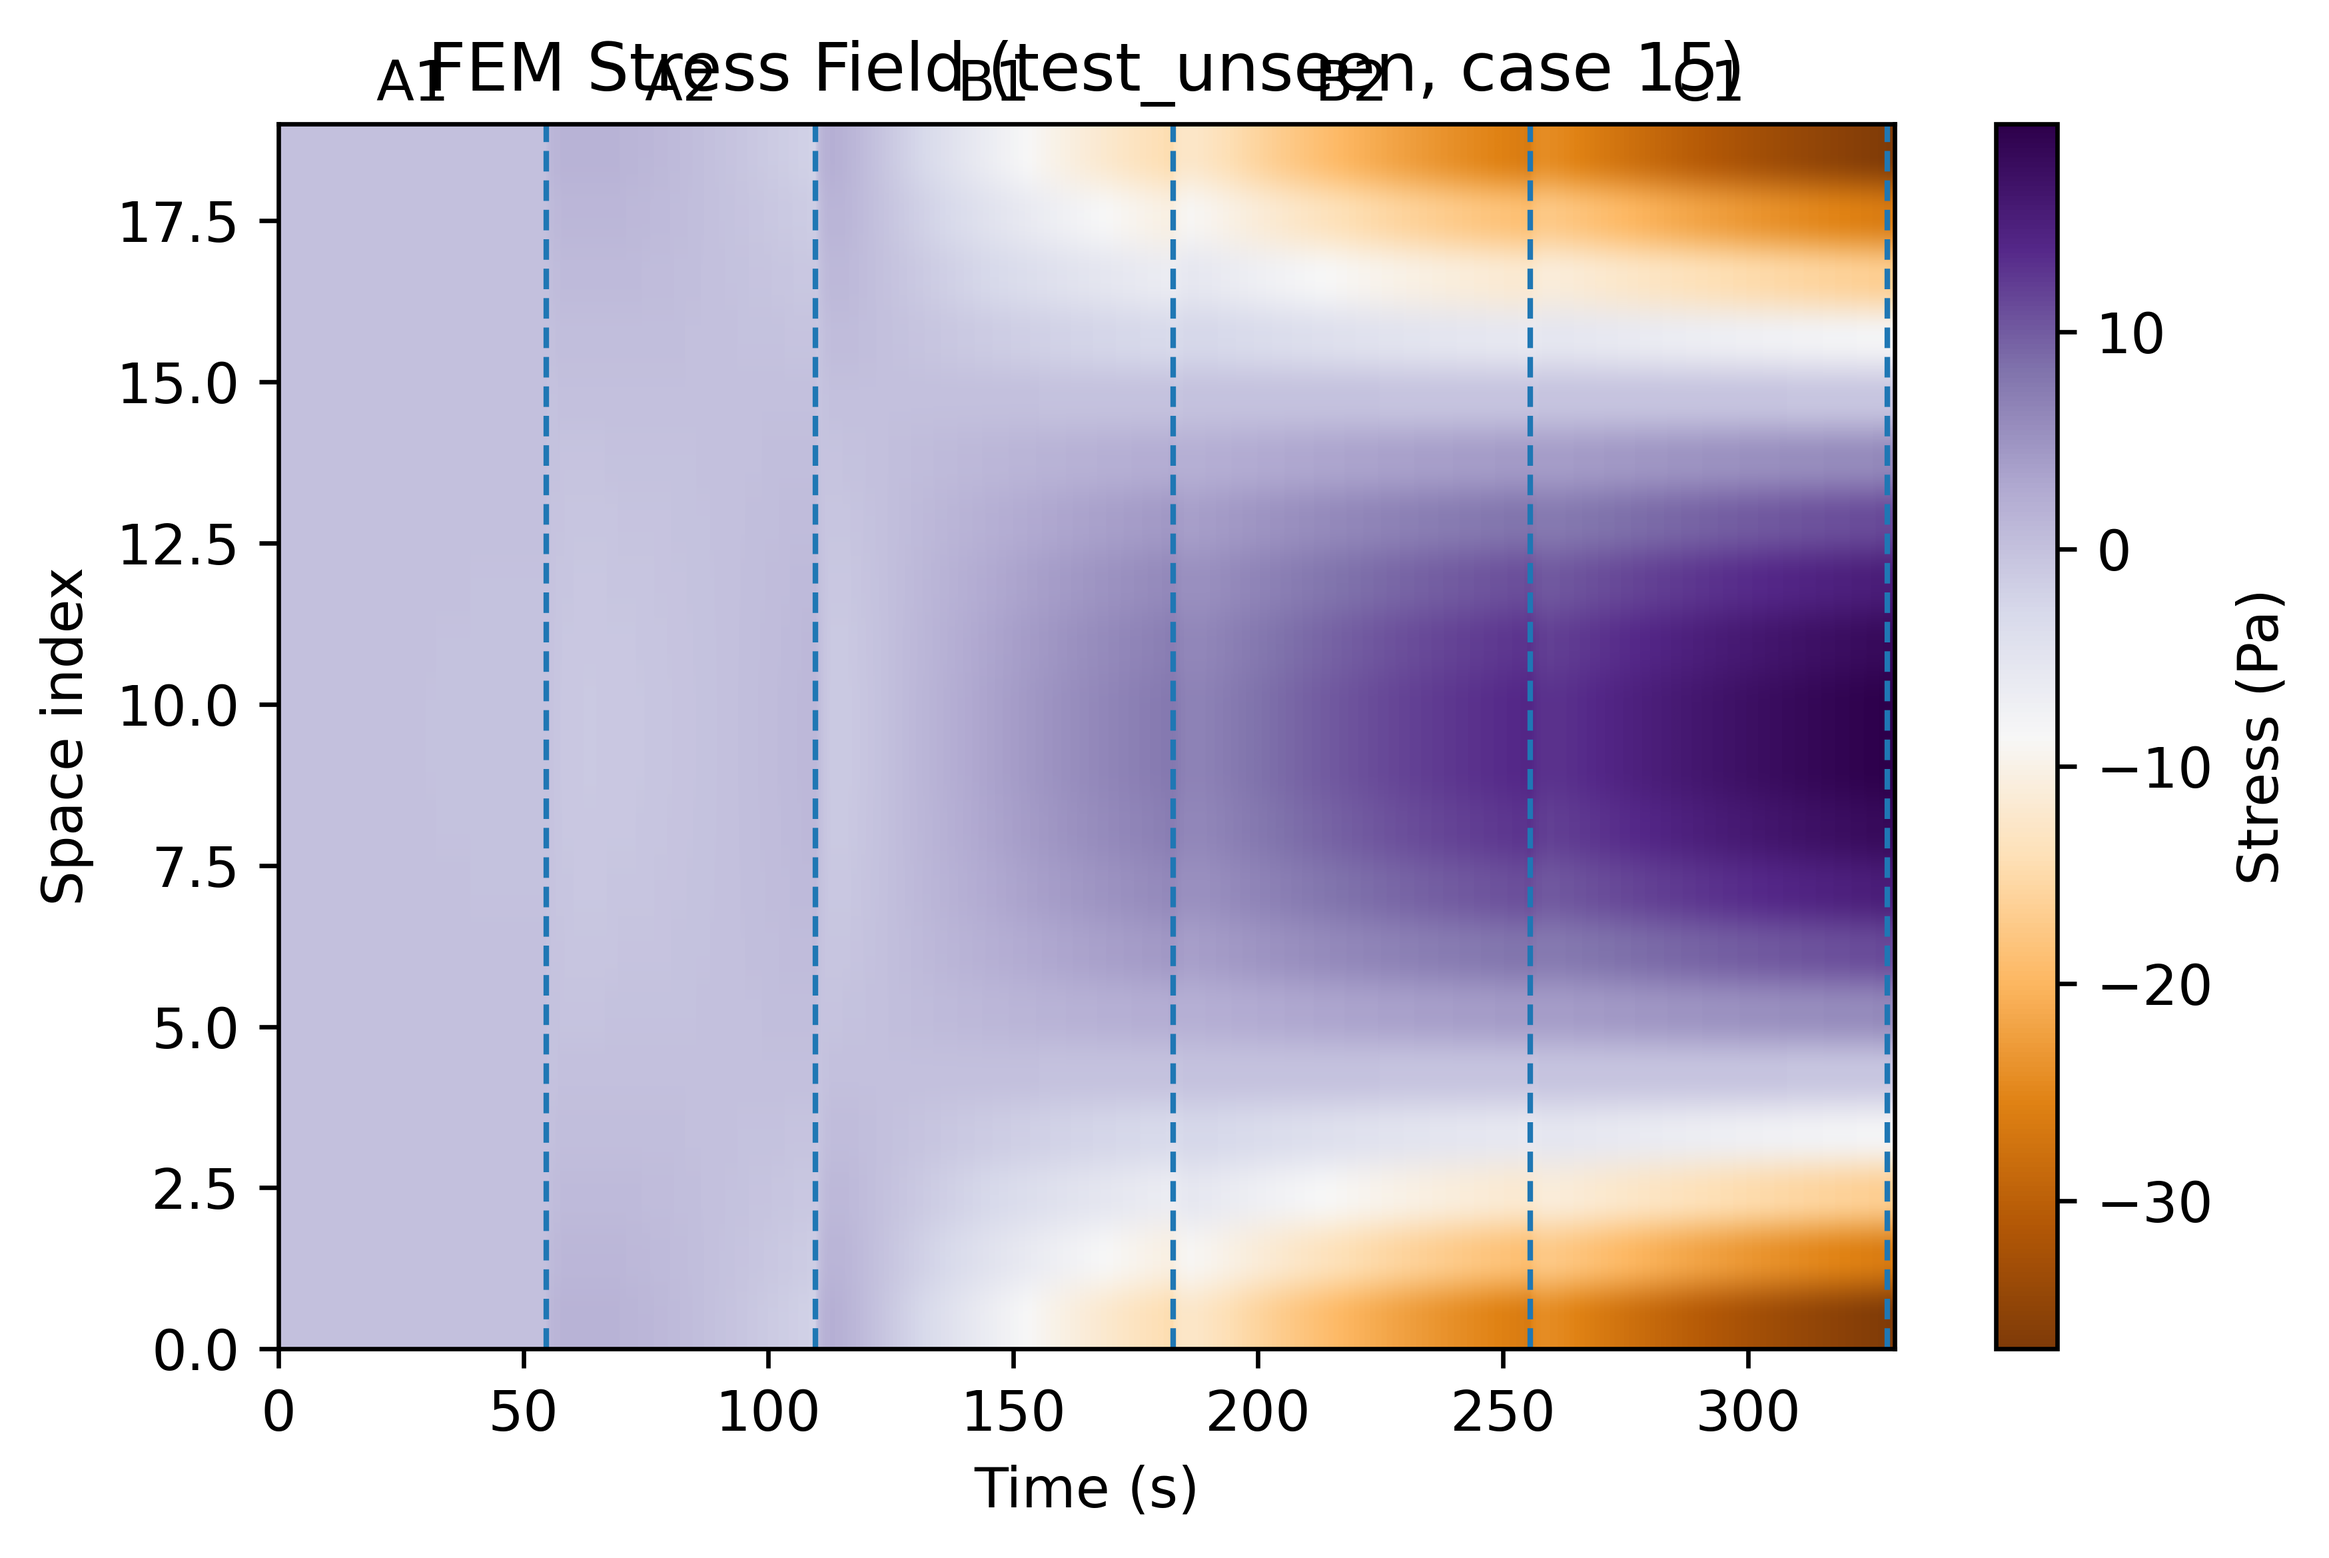
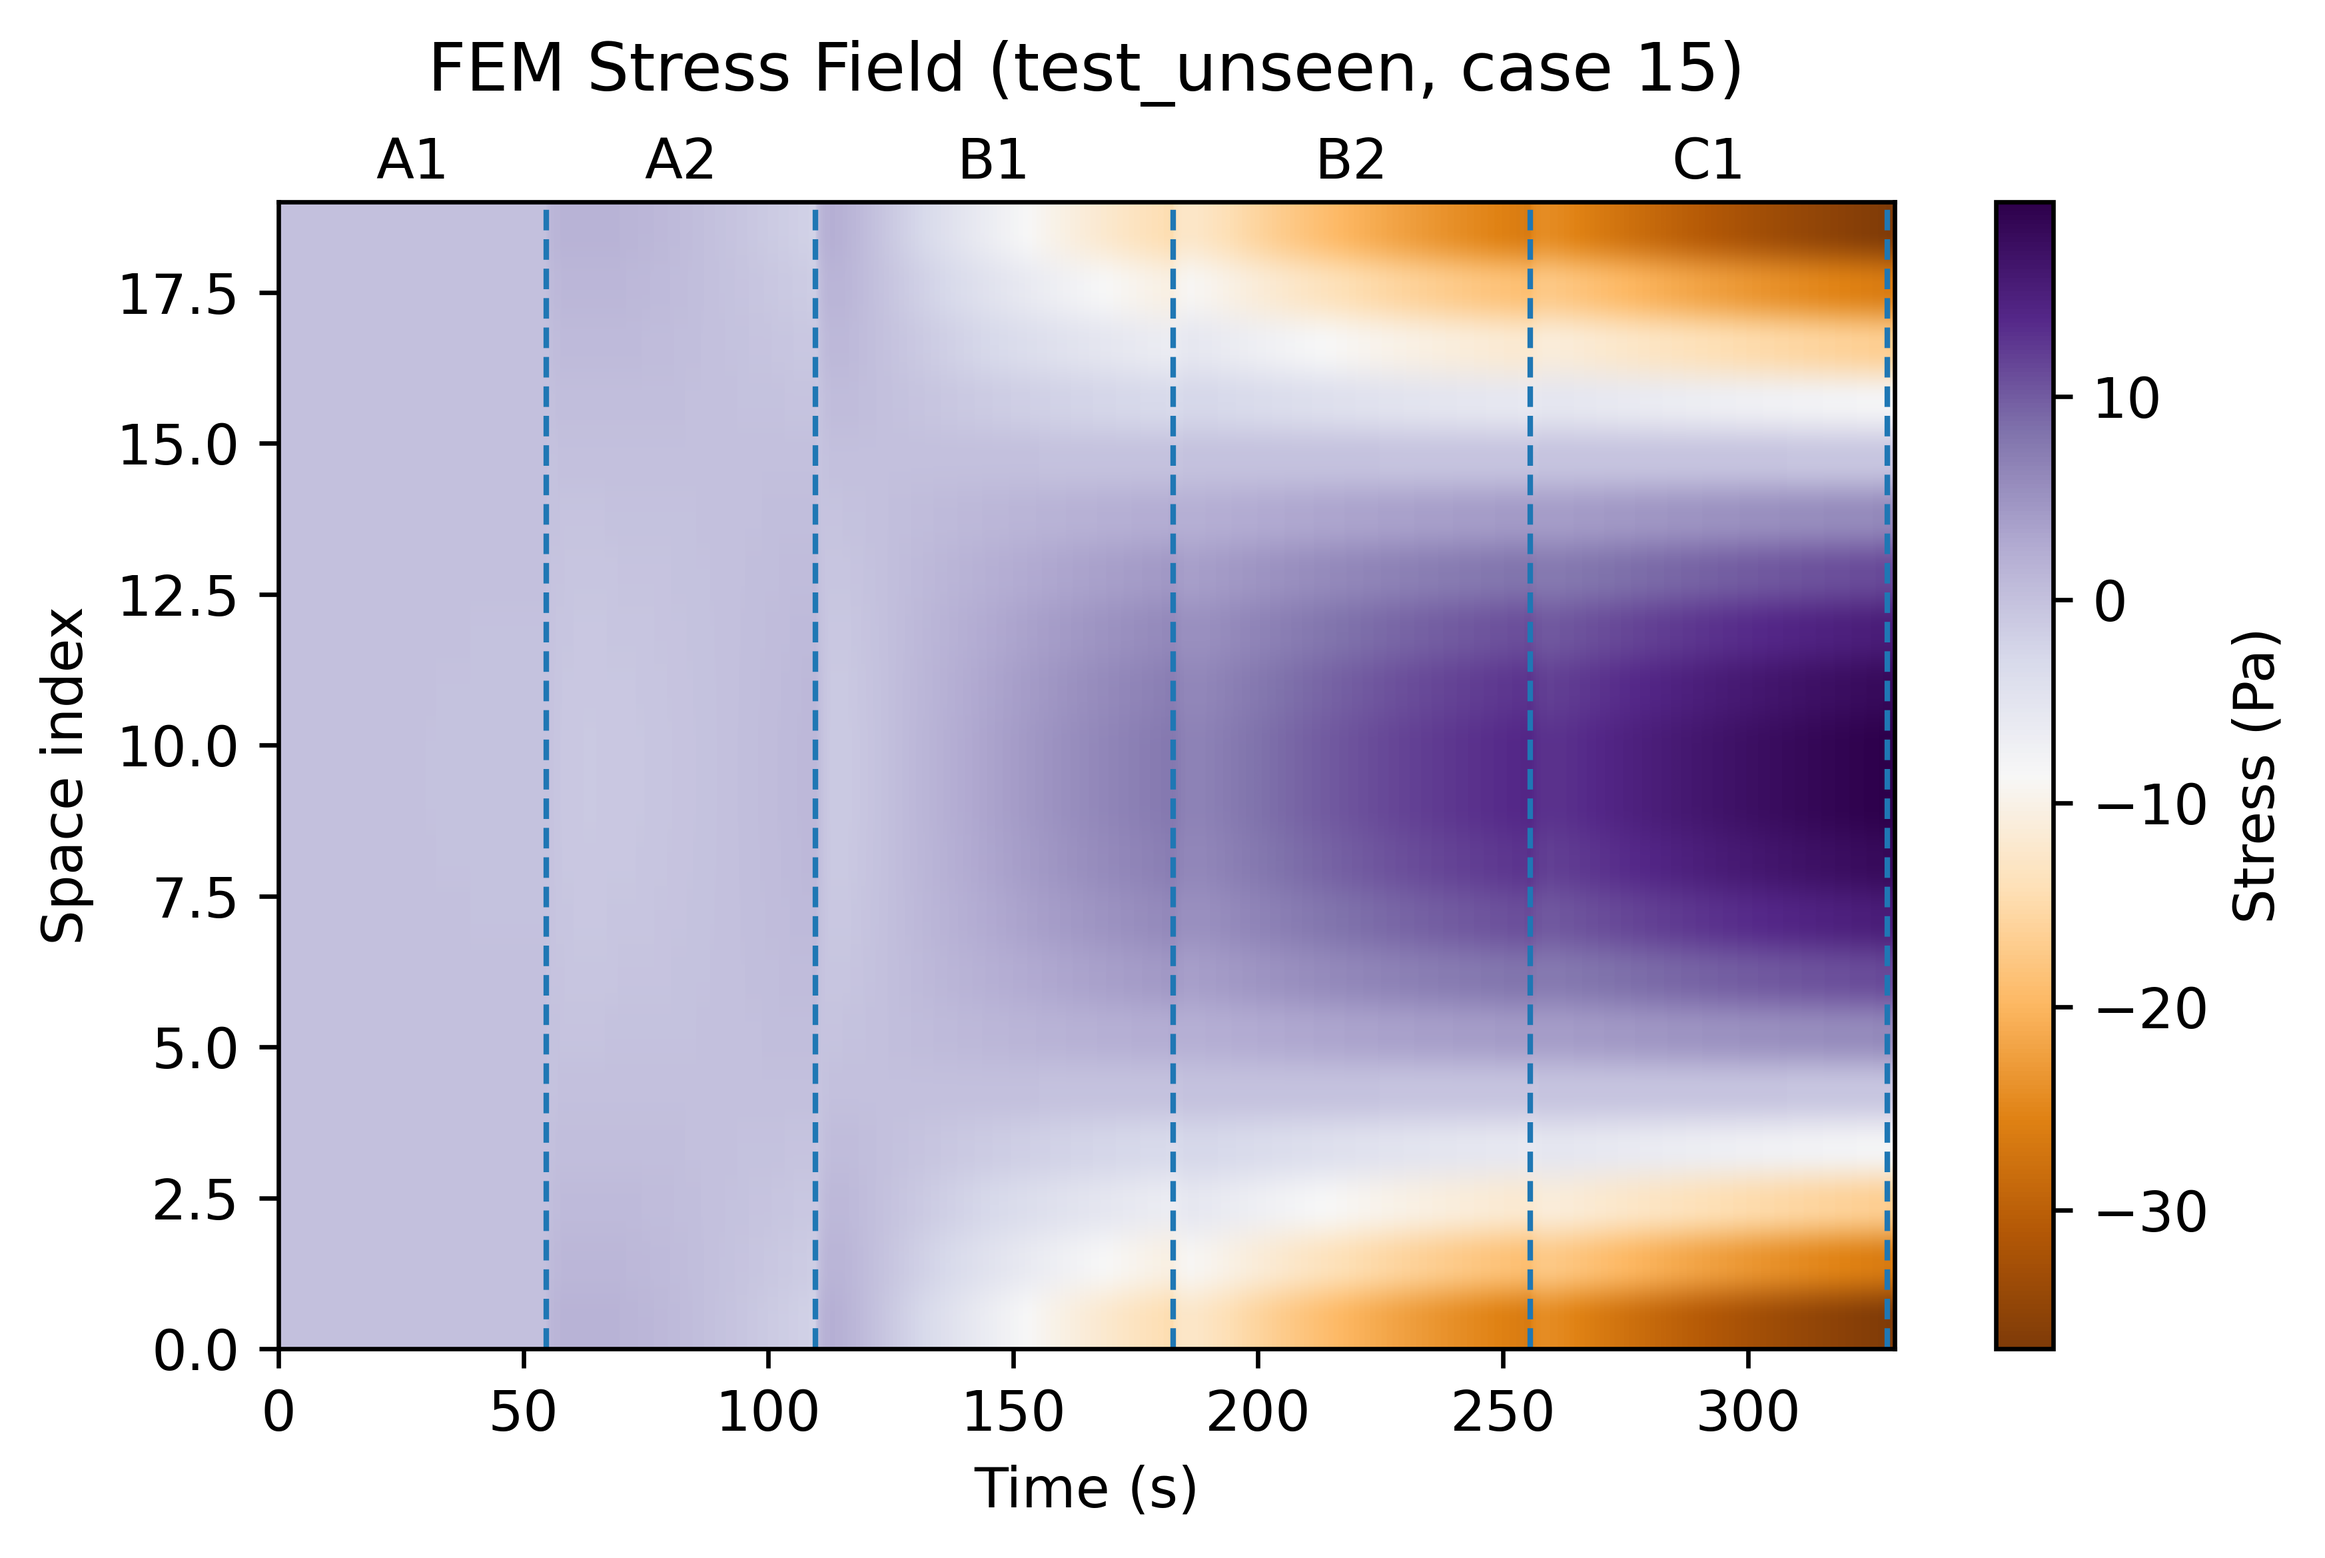
edit_FEM_plots

diff --git a/plot_case_annealing_multizone.py b/plot_case_annealing_multizone.py
@@ -154,23 +154,34 @@ def add_zone_lines_time(ax):
 def add_zone_lines_distance(ax):
     x_max = velocity_m_per_s * t_end
 
-    for i, (zone, x_end) in enumerate(ZONE_DISTANCE_MARKERS.items()):
-        if x_end <= x_max:
-            ax.axvline(x_end, linestyle="--", linewidth=1, color="gray")
+    # Build visible zone intervals in distance
+    visible_zones = []
+    for zone, (t0, t1) in ZONE_TIME_WINDOWS.items():
+        x0 = velocity_m_per_s * t0
+        x1 = velocity_m_per_s * t1
 
-            # small alternating offset
-            y_offset = 1.01 + (0.02 if i % 2 == 0 else 0.0)
+        if x0 < x_max:
+            visible_zones.append((zone, x0, min(x1, x_max)))
 
-            ax.text(
-                x_end,
-                y_offset,
-                zone,
-                transform=ax.get_xaxis_transform(),
-                ha="center",
-                va="bottom",
-                rotation=90,
-                fontsize=9
-            )
+    # Draw boundary lines at zone ends
+    for zone, x0, x1 in visible_zones:
+        if x1 <= x_max:
+            ax.axvline(x1, linestyle="--", linewidth=1, color="gray")
+
+    # Put zone names at the center of each zone
+    for i, (zone, x0, x1) in enumerate(visible_zones):
+        x_center = 0.5 * (x0 + x1)
+        y_offset = 1.01
+
+        ax.text(
+            x_center,
+            y_offset,
+            zone,
+            transform=ax.get_xaxis_transform(),
+            ha="center",
+            va="bottom",
+            fontsize=10
+        )
 
 
 # ============================================================
@@ -188,7 +199,7 @@ def plot_temperature_map(temperature: np.ndarray, which: str, case_idx: int, tag
     )
     ax.set_xlabel("Time (s)")
     ax.set_ylabel("Space index")
-    ax.set_title(f"FEM Temperature Field ({which}, case {case_idx})")
+    ax.set_title(f"FEM Temperature Field ({which}, case {case_idx})", pad=20)
     cbar = fig.colorbar(im, ax=ax)
     cbar.set_label("Temperature (K)")
     add_zone_lines_time(ax)
@@ -211,7 +222,7 @@ def plot_stress_map(stress: np.ndarray, which: str, case_idx: int, tag: str, nx_
     )
     ax.set_xlabel("Time (s)")
     ax.set_ylabel("Space index")
-    ax.set_title(f"FEM Stress Field ({which}, case {case_idx})")
+    ax.set_title(f"FEM Stress Field ({which}, case {case_idx})", pad=20)
     cbar = fig.colorbar(im, ax=ax)
     cbar.set_label("Stress (Pa)")
     add_zone_lines_time(ax)
@@ -236,7 +247,7 @@ def plot_temperature_timeseries(temperature: np.ndarray, which: str, case_idx: i
     plt.plot(t_, temperature[far_idx], label=f"Last node ({far_idx})")
     plt.xlabel("Time (s)")
     plt.ylabel("Temperature (K)")
-    plt.title(f"Temperature evolution ({which}, case {case_idx})")
+    plt.title(f"Temperature evolution ({which}, case {case_idx})", pad=20)
     plt.grid(True)
     plt.legend()
     plt.tight_layout()
@@ -261,7 +272,7 @@ def plot_stress_timeseries(stress: np.ndarray, which: str, case_idx: int, tag: s
     plt.plot(t_, stress[far_idx], label=f"Last node ({far_idx})")
     plt.xlabel("Time (s)")
     plt.ylabel("Stress (Pa)")
-    plt.title(f"Stress evolution ({which}, case {case_idx})")
+    plt.title(f"Stress evolution ({which}, case {case_idx})", pad=20)
     plt.grid(True)
     plt.legend()
     plt.tight_layout()
@@ -282,7 +293,7 @@ def plot_surface_temperature_vs_distance(temperature: np.ndarray, which: str, ca
     plt.plot(x_, temperature[surface_idx], label="Surface temperature")
     plt.xlabel("Lehr distance x (m)")
     plt.ylabel("Temperature (K)")
-    plt.title(f"Surface temperature vs distance ({which}, case {case_idx})")
+    plt.title(f"Surface temperature vs distance ({which}, case {case_idx})", pad=20)
     plt.grid(True)
     plt.legend()
     add_zone_lines_distance(plt.gca())
@@ -306,7 +317,7 @@ def plot_surface_stress_vs_distance(stress: np.ndarray, which: str, case_idx: in
     plt.plot(x_, stress[mid_idx], label="Mid-plane stress")
     plt.xlabel("Lehr distance x (m)")
     plt.ylabel("Stress (Pa)")
-    plt.title(f"Stress vs distance ({which}, case {case_idx})")
+    plt.title(f"Stress vs distance ({which}, case {case_idx})", pad=20)
     plt.grid(True)
     plt.legend()
     add_zone_lines_distance(plt.gca())
